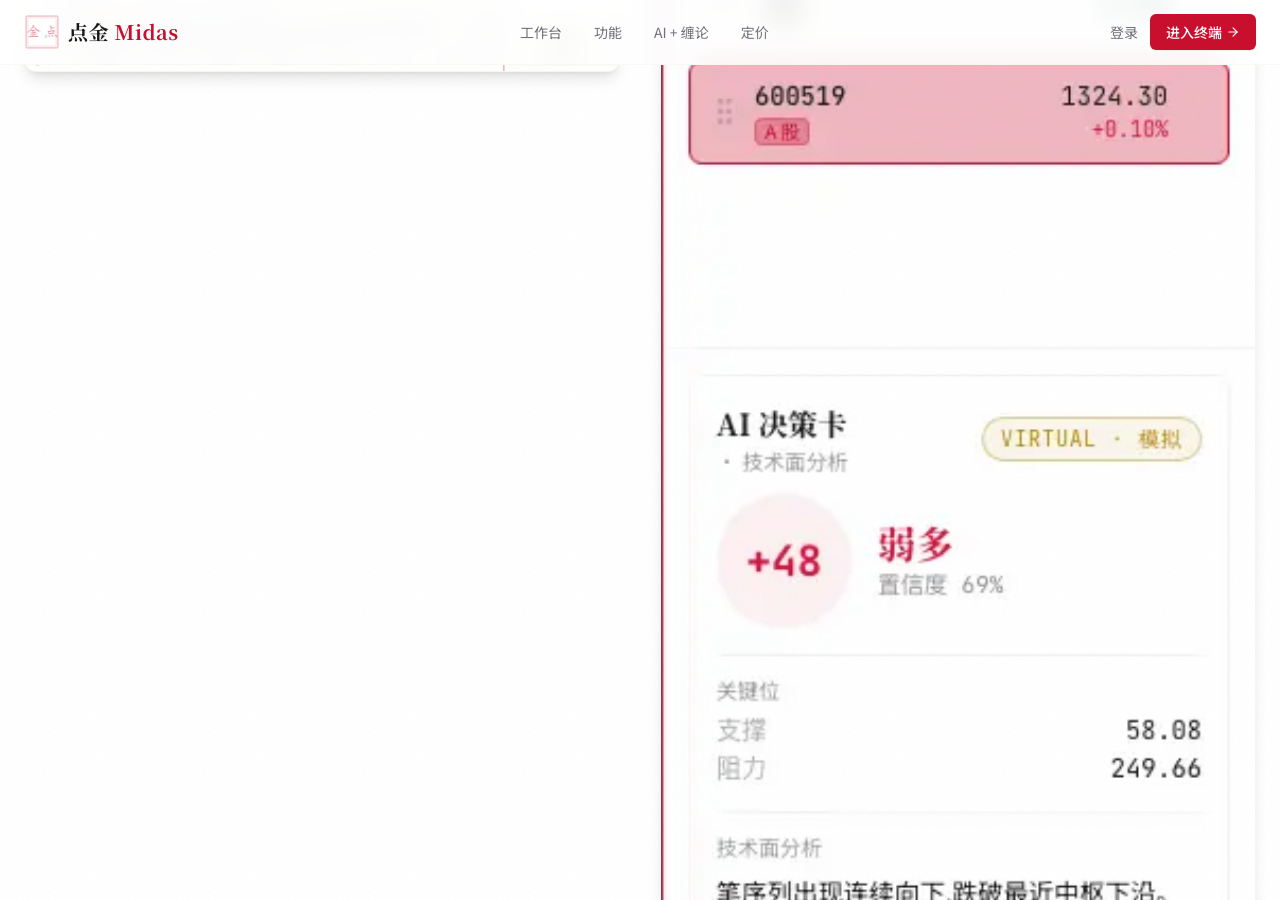
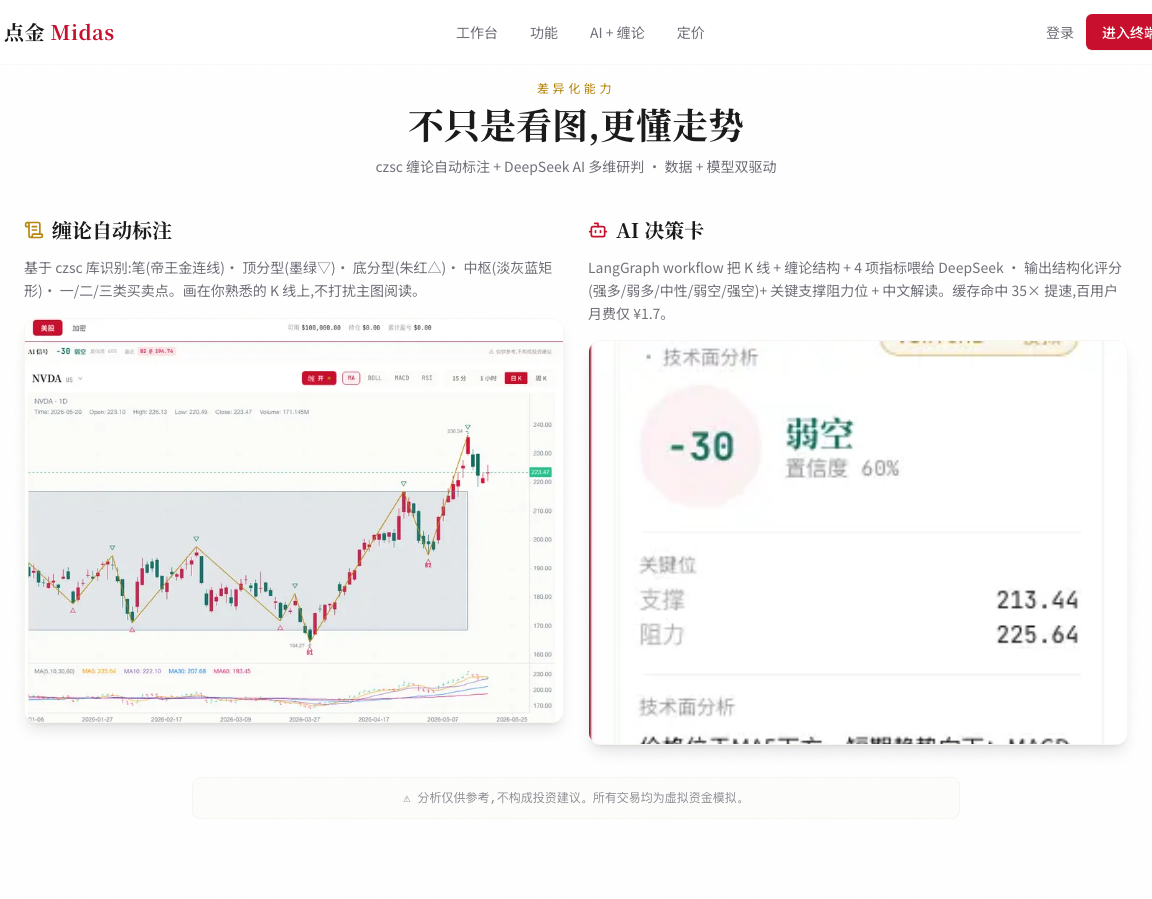
[Task M1-E rework] A2/A3/A4/A5 视觉返工 · AI 卡尺寸 + 截图 + Hero 平衡 + 留白收紧
产品负责人 2026-05-21 验收反馈 4 处返工(B 类 Hero 主视觉决策方向另议):

【A2 · AI 决策卡展示图尺寸】
AiChan 区两图严格等高对齐:
  - 容器统一 aspect-[4/3] · 不同源图比例无感差异
  - 左侧 chan(1090×820, 1.33 比例)用 object-cover object-center
  - 右侧 AI 卡(280×500, 0.56 比例)用 object-cover object-top
    确保头部综合评分 + 关键位 + narrative 都可见
  - grid items-stretch · 文案区也对齐

【A3 · 重新生成营销截图】
新增 scripts/screenshot-marketing.mjs · 重跑 3 张图到 public/marketing/:
  - workbench.png · NVDA 美股完整态(K + 缠论 + AI 卡)· 真实 real LLM 模式
  - chan.png · 美股 NVDA 缠论标注区(无未激活红框)
  - ai-card.png · 右栏 AI 决策卡(含 header + 评分 + 关键位 + narrative)
对比之前的图:
  - 全部 llm_mode=real · 无「mock(待填 KEY)」徽章
  - 选 NVDA(美股)避免 600519 选中态被误读为「未激活红框」
  - 数据完整 · 真实 AI narrative 已渲染

【A4 · Hero 重排消除右上空白】
两手:
  1. hero-ink.svg 改 viewBox="0 240 600 360"(裁掉空的上半部)
     · 山形 + K 线在视口中垂直居中
  2. page.tsx Hero 右列固定 lg:w-[440px] · max-w-[420px] · items-center
     左右视觉重量均衡 · 不再头重脚轻

【A5 · 整体留白收紧】
统一节奏(故宫审美:克制 / 紧凑 / 考究):
  - section py-20/24 → py-16(Pricing/Features/Showcase/Markets)
  - section py-24 → py-16(BottomCTA)
  - mt-12/14 → mt-8/10(各区主标 → 内容)
  - max-w-7xl → max-w-6xl(Hero/Showcase/Markets/Features/AiChan/CTA)
    · 主轴更紧 · 内容不再「漂」在屏幕中央
  - footer py-12 → py-10 · gap-10 → gap-8

未做 · 等产品负责人决定后再动(B 类):
  - A1 · 换 logo:等产品负责人提供真实篆书印章 PNG(透明背景)
  - B · Hero 主视觉:产品负责人二选一:真实水墨素材 / 纯净留白版

自验:
  - pnpm tsc --noEmit · 0 错
  - pnpm build · / 路径仍 ○ static · 6.07 kB First Load
  - docker compose web 重建 + 真实访问
  - 重新截图 7 张(分段 + 整页归档)
  - Hero 不再头重脚轻 · AiChan 左右等高 · 整页节奏紧凑

红线遵守:
  - 视觉严守白底中国红 ✓ 无黑底无紫色
[…]

diff --git a/apps/web/app/page.tsx b/apps/web/app/page.tsx
@@ -127,9 +127,9 @@ function TopNav() {
 
 function Hero() {
   return (
-    <section className="relative mx-auto flex w-full max-w-7xl flex-col-reverse items-center gap-10 px-6 py-20 lg:flex-row lg:gap-16 lg:py-32">
+    <section className="relative mx-auto flex w-full max-w-6xl flex-col-reverse items-center gap-10 px-6 py-16 lg:flex-row lg:gap-12 lg:py-24">
       <div className="flex-1">
-        <p className="mb-4 text-sm uppercase tracking-[0.3em] text-midas-red">
+        <p className="mb-3 text-xs uppercase tracking-[0.3em] text-midas-red">
           AI 原生金融分析终端
         </p>
         <h1 className="font-serif text-5xl font-bold leading-tight tracking-tight lg:text-6xl">
@@ -137,10 +137,10 @@ function Hero() {
           <span className="mx-2 text-midas-red">·</span>
           <span className="text-midas-red">点石成金</span>
         </h1>
-        <p className="mt-6 max-w-xl text-base leading-relaxed text-muted-foreground lg:text-lg">
+        <p className="mt-5 max-w-xl text-base leading-relaxed text-muted-foreground lg:text-lg">
           覆盖 A 股、美股与加密货币三大市场,以虚拟资金零风险磨练交易直觉,让 AI 辅助你的每一次决策。
         </p>
-        <div className="mt-10 flex flex-wrap items-center gap-4">
+        <div className="mt-8 flex flex-wrap items-center gap-3">
           <Link
             href="/workbench"
             className="inline-flex items-center gap-2 rounded-md bg-midas-red px-6 py-3 text-base font-medium text-white shadow-md transition-all hover:bg-midas-red-deep hover:shadow-lg"
@@ -155,21 +155,22 @@ function Hero() {
             查看功能
           </a>
         </div>
-        <div className="mt-12 flex items-center gap-6 text-xs text-muted-foreground/80">
+        <div className="mt-8 flex items-center gap-5 text-xs text-muted-foreground/80">
           <Stat icon={<Trophy className="h-4 w-4 text-gold" />} label="缠论自动标注" />
           <Stat icon={<Bot className="h-4 w-4 text-midas-red" />} label="AI 决策卡" />
           <Stat icon={<Wallet className="h-4 w-4 text-gold" />} label="虚拟资金 0 风险" />
         </div>
       </div>
 
-      <div className="relative flex flex-1 items-center justify-center">
+      {/* 右侧视觉 · 等比正方且垂直居中 · A4 修右上空白 */}
+      <div className="relative flex items-center justify-center lg:w-[440px] lg:shrink-0">
         <div className="absolute inset-0 -z-10 rounded-full bg-gradient-to-br from-midas-red-glow/40 via-transparent to-gold/10 blur-3xl" />
         <Image
           src="/brand/hero-ink.svg"
           alt="水墨山形 + 朱红 K 线 + 帝王金脉络"
-          width={600}
-          height={600}
-          className="h-auto w-full max-w-[520px]"
+          width={440}
+          height={440}
+          className="h-auto w-full max-w-[420px]"
           priority
         />
       </div>
@@ -195,15 +196,15 @@ function Stat({ icon, label }: { icon: React.ReactNode; label: string }) {
 
 function Showcase() {
   return (
-    <section id="showcase" className="border-y border-paper/60 bg-cream/40 py-20">
-      <div className="mx-auto max-w-7xl px-6 text-center">
+    <section id="showcase" className="border-y border-paper/60 bg-cream/40 py-16">
+      <div className="mx-auto max-w-6xl px-6 text-center">
         <h2 className="font-serif text-3xl font-bold lg:text-4xl">
           打开即是专业终端
         </h2>
-        <p className="mt-3 text-muted-foreground">
+        <p className="mt-3 text-sm text-muted-foreground">
           K 线 · 缠论标注 · AI 决策卡 · 三市场切换 · 虚拟交易 · 一屏到位
         </p>
-        <div className="relative mt-10">
+        <div className="relative mt-8">
           <div className="overflow-hidden rounded-xl border border-paper bg-background shadow-2xl">
             <Image
               src="/marketing/workbench.png"
@@ -231,16 +232,16 @@ function Showcase() {
 
 function Markets() {
   return (
-    <section className="mx-auto max-w-7xl px-6 py-20">
+    <section className="mx-auto max-w-6xl px-6 py-16">
       <div className="text-center">
         <h2 className="font-serif text-3xl font-bold lg:text-4xl">
           三市场统一体验
         </h2>
-        <p className="mt-3 text-muted-foreground">
+        <p className="mt-3 text-sm text-muted-foreground">
           一个终端,覆盖全球主流交易市场
         </p>
       </div>
-      <div className="mt-12 grid gap-6 md:grid-cols-3">
+      <div className="mt-10 grid gap-5 md:grid-cols-3">
         <MarketCard
           icon={<BarChart3 className="h-6 w-6 text-midas-red" />}
           name="A 股"
@@ -297,16 +298,16 @@ function Features() {
   return (
     <section
       id="features"
-      className="border-y border-paper/60 bg-cream/40 py-20"
+      className="border-y border-paper/60 bg-cream/40 py-16"
     >
-      <div className="mx-auto max-w-7xl px-6">
+      <div className="mx-auto max-w-6xl px-6">
         <div className="text-center">
           <h2 className="font-serif text-3xl font-bold lg:text-4xl">核心功能</h2>
-          <p className="mt-3 text-muted-foreground">
+          <p className="mt-3 text-sm text-muted-foreground">
             为认真对待投资的你而设计
           </p>
         </div>
-        <div className="mt-12 grid gap-6 md:grid-cols-2 lg:grid-cols-4">
+        <div className="mt-10 grid gap-5 md:grid-cols-2 lg:grid-cols-4">
           <FeatureCard
             icon={<CandlestickChart className="h-6 w-6 text-midas-red" />}
             title="K 线工作台"
@@ -360,65 +361,67 @@ function FeatureCard({ icon, title, desc }: FeatureCardProps) {
 
 function AiChan() {
   return (
-    <section id="ai-chan" className="mx-auto max-w-7xl px-6 py-24">
+    <section id="ai-chan" className="mx-auto max-w-6xl px-6 py-20">
       <div className="text-center">
-        <p className="mb-3 text-sm uppercase tracking-[0.3em] text-gold">
+        <p className="mb-2 text-xs uppercase tracking-[0.3em] text-gold">
           差异化能力
         </p>
         <h2 className="font-serif text-3xl font-bold lg:text-4xl">
           不只是看图,更懂走势
         </h2>
-        <p className="mt-3 text-muted-foreground">
+        <p className="mt-3 text-sm text-muted-foreground">
           czsc 缠论自动标注 + DeepSeek AI 多维研判 · 数据 + 模型双驱动
         </p>
       </div>
 
-      <div className="mt-14 grid gap-10 lg:grid-cols-2">
+      {/*
+        A2 修:左右两张图严格等高对齐 ·
+        每个 figure 用固定 aspect-[4/3] + object-cover · 不同源比例统一显示尺寸。
+      */}
+      <div className="mt-10 grid items-stretch gap-6 lg:grid-cols-2">
         {/* 左侧 · 缠论自动标注 */}
-        <div className="space-y-4">
-          <div className="flex items-center gap-2">
+        <div className="flex flex-col">
+          <div className="mb-3 flex items-center gap-2">
             <ScrollText className="h-5 w-5 text-gold" />
             <h3 className="font-serif text-xl font-bold">缠论自动标注</h3>
           </div>
-          <p className="text-sm leading-relaxed text-muted-foreground">
-            基于 czsc 库识别:笔(帝王金连线)· 顶分型(墨绿▽)· 底分型(朱红△)· 中枢(淡灰蓝矩形)· 一/二/三类买卖点。
-            画在你熟悉的 K 线上,不打扰主图阅读。
+          <p className="mb-4 text-sm leading-relaxed text-muted-foreground">
+            基于 czsc 库识别:笔(帝王金连线)· 顶分型(墨绿▽)· 底分型(朱红△)· 中枢(淡灰蓝矩形)· 一/二/三类买卖点。画在你熟悉的 K 线上,不打扰主图阅读。
           </p>
-          <div className="overflow-hidden rounded-xl border border-paper bg-background shadow-lg">
+          <div className="relative aspect-[4/3] overflow-hidden rounded-xl border border-paper bg-background shadow-lg">
             <Image
               src="/marketing/chan.png"
               alt="缠论自动标注 · 笔/分型/中枢"
-              width={1440}
-              height={900}
-              className="h-auto w-full"
+              fill
+              className="object-cover object-center"
+              sizes="(max-width: 1024px) 100vw, 50vw"
             />
           </div>
         </div>
 
-        {/* 右侧 · AI 决策卡 */}
-        <div className="space-y-4">
-          <div className="flex items-center gap-2">
+        {/* 右侧 · AI 决策卡 · 同一 aspect-[4/3] 容器 · object-cover object-top 保留头部信息 */}
+        <div className="flex flex-col">
+          <div className="mb-3 flex items-center gap-2">
             <Bot className="h-5 w-5 text-midas-red" />
             <h3 className="font-serif text-xl font-bold">AI 决策卡</h3>
           </div>
-          <p className="text-sm leading-relaxed text-muted-foreground">
-            LangGraph workflow 把 K 线 + 缠论结构 + 4 项指标喂给 DeepSeek · 输出结构化评分(强多/弱多/中性/弱空/强空)+ 关键支撑阻力位 + 中文解读。
-            缓存命中 35× 提速,百用户月费仅 ¥1.7。
+          <p className="mb-4 text-sm leading-relaxed text-muted-foreground">
+            LangGraph workflow 把 K 线 + 缠论结构 + 4 项指标喂给 DeepSeek · 输出结构化评分(强多/弱多/中性/弱空/强空)+ 关键支撑阻力位 + 中文解读。缓存命中 35× 提速,百用户月费仅 ¥1.7。
           </p>
-          <div className="overflow-hidden rounded-xl border border-paper bg-background shadow-lg">
+          <div className="relative aspect-[4/3] overflow-hidden rounded-xl border border-paper bg-background shadow-lg">
             <Image
               src="/marketing/ai-card.png"
               alt="AI 决策卡 · 综合评分 + 缠论买卖点"
-              width={600}
-              height={900}
-              className="h-auto w-full"
+              fill
+              className="object-cover object-top"
+              sizes="(max-width: 1024px) 100vw, 50vw"
             />
           </div>
         </div>
       </div>
 
       {/* 强制 disclaimer · 跟 0011 / 0012 ADR 红线一致 */}
-      <div className="mx-auto mt-10 max-w-3xl rounded-lg border border-paper bg-cream/60 px-5 py-3 text-center">
+      <div className="mx-auto mt-8 max-w-3xl rounded-lg border border-paper bg-cream/60 px-5 py-3 text-center">
         <p className="font-mono text-xs text-muted-foreground/80">
           ⚠ 分析仅供参考,不构成投资建议。所有交易均为虚拟资金模拟。
         </p>
@@ -437,23 +440,23 @@ function Pricing() {
   return (
     <section
       id="pricing"
-      className="border-y border-paper/60 bg-cream/40 py-20"
+      className="border-y border-paper/60 bg-cream/40 py-16"
     >
       <div className="mx-auto max-w-3xl px-6 text-center">
         <h2 className="font-serif text-3xl font-bold lg:text-4xl">定价</h2>
-        <div className="mt-10 rounded-2xl border-2 border-gold/40 bg-background p-10 shadow-md">
-          <div className="mb-4 inline-block rounded-full border border-gold bg-gold/10 px-4 py-1.5 font-mono text-xs text-gold">
+        <div className="mt-8 rounded-2xl border-2 border-gold/40 bg-background p-8 shadow-md">
+          <div className="mb-3 inline-block rounded-full border border-gold bg-gold/10 px-4 py-1.5 font-mono text-xs text-gold">
             限时免费 · 内测中
           </div>
           <h3 className="mt-2 font-serif text-2xl font-bold">
             点金 Midas 正在内测
           </h3>
-          <p className="mt-4 text-base leading-relaxed text-muted-foreground">
+          <p className="mt-3 text-sm leading-relaxed text-muted-foreground">
             当前所有功能免费开放。会员方案规划中,敬请期待。
           </p>
           <Link
             href="/workbench"
-            className="mt-8 inline-flex items-center gap-2 rounded-md bg-midas-red px-6 py-3 text-base font-medium text-white shadow-sm transition-colors hover:bg-midas-red-deep"
+            className="mt-6 inline-flex items-center gap-2 rounded-md bg-midas-red px-6 py-3 text-sm font-medium text-white shadow-sm transition-colors hover:bg-midas-red-deep"
           >
             立即体验
             <ArrowRight className="h-4 w-4" />
@@ -472,20 +475,20 @@ function Pricing() {
 
 function BottomCTA() {
   return (
-    <section className="mx-auto max-w-7xl px-6 py-24 text-center">
+    <section className="mx-auto max-w-6xl px-6 py-16 text-center">
       <h2 className="font-serif text-3xl font-bold lg:text-4xl">
         开始你的第一笔虚拟交易
       </h2>
-      <p className="mt-4 text-muted-foreground">
+      <p className="mt-3 text-sm text-muted-foreground">
         0 风险 · 0 成本 · 不需要真金白银,只磨练你的判断
       </p>
-      <div className="mt-8">
+      <div className="mt-6">
         <Link
           href="/workbench"
-          className="inline-flex items-center gap-2 rounded-md bg-midas-red px-8 py-4 text-lg font-medium text-white shadow-lg transition-all hover:bg-midas-red-deep hover:shadow-xl"
+          className="inline-flex items-center gap-2 rounded-md bg-midas-red px-8 py-3.5 text-base font-medium text-white shadow-lg transition-all hover:bg-midas-red-deep hover:shadow-xl"
         >
           进入终端
-          <ArrowRight className="h-5 w-5" />
+          <ArrowRight className="h-4 w-4" />
         </Link>
       </div>
     </section>
@@ -501,8 +504,8 @@ function BottomCTA() {
 function Footer() {
   return (
     <footer className="border-t border-paper bg-cream/60">
-      <div className="mx-auto max-w-7xl px-6 py-12">
-        <div className="grid gap-10 md:grid-cols-4">
+      <div className="mx-auto max-w-6xl px-6 py-10">
+        <div className="grid gap-8 md:grid-cols-4">
           <div className="md:col-span-2">
             <div className="flex items-center gap-2">
               <Image
@@ -539,7 +542,7 @@ function Footer() {
             ]}
           />
         </div>
-        <div className="mt-10 flex flex-col items-center justify-between gap-3 border-t border-paper pt-6 text-xs text-muted-foreground md:flex-row">
+        <div className="mt-8 flex flex-col items-center justify-between gap-2 border-t border-paper pt-5 text-xs text-muted-foreground md:flex-row">
           <p>© 2026 点金 Midas. All rights reserved.</p>
           <p className="font-mono">仅供模拟交易,不构成投资建议</p>
         </div>
